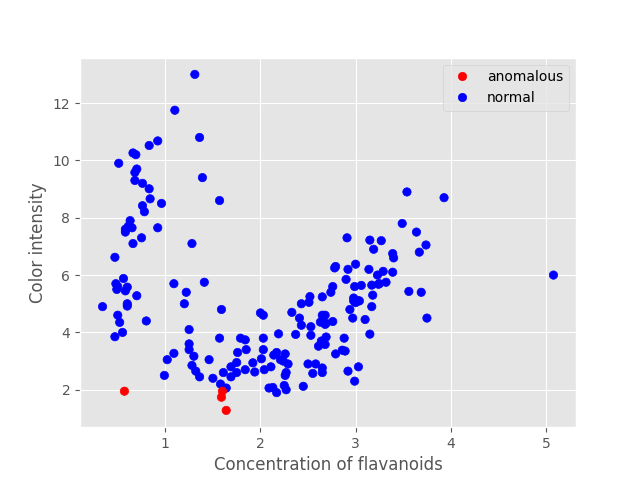
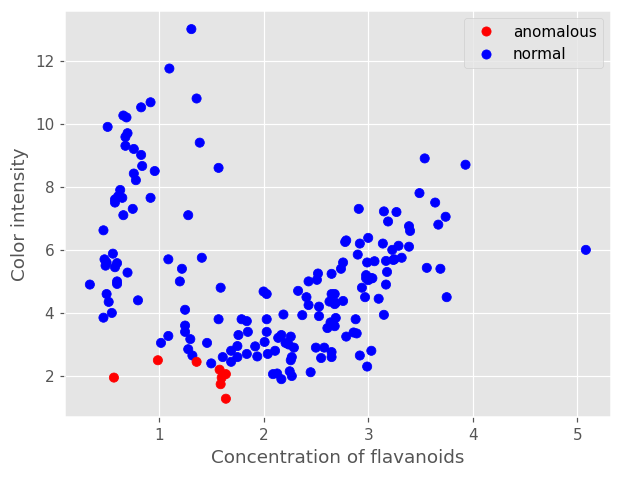
fix: make the OC-NN objective bounded below so training converges
The README noted that the loss appeared unbounded with no real convergence,
and speculated it was a limitation of the approach. It was three bugs in this
implementation.

1. The regularization term received no gradient. `self.w` / `self.V` were
   captured with `layer.get_weights()`, which returns numpy copies, so inside
   the loss they were graph constants. Autodiff saw nothing from
   `0.5*||w|| + 0.5*||V||` and the optimizer minimized the quantile term alone.
   Read the live layer kernels instead.

2. The norms were not squared. Eq (4) uses `0.5*||w||^2_2 + 0.5*||V||^2_F`;
   the code used `tf.norm`. Scaling `w -> c*w` scales the score, `r`, and the
   quantile term linearly in `c`, and the unsquared penalty grows linearly too.
   Since the quantile term is negative at its optimum, the objective is
   genuinely unbounded below and descent walks `c -> inf`. The squared penalty
   grows like `c^2`, making the objective coercive.

3. The Dense layers had biases. The paper scores a point as exactly
   `<w, g(Vx)>`. An output bias is unregularized and shifts the score and `r`
   together, so the net drives the objective down by making its output
   constant, collapsing to `w -> 0`. Fixing 1 and 2 alone still collapsed.

Also: `steps_per_epoch=1` meant each epoch trained on one default batch of 32
samples (~3.2k of 567k rows on http.mat, with `r` estimated from 32 points) --
now full-batch, matching the paper's alternating minimization; `r` is solved
[…]

diff --git a/ocnn.py b/ocnn.py
@@ -9,7 +9,7 @@ from tensorflow.keras.optimizers import Adam
 import tensorflow as tf
 import tensorflow_probability as tfp
 
-from loss import quantile_loss
+from loss import quantile_loss, regularization_loss
 
 tf.random.set_seed(0)
 
@@ -30,37 +30,64 @@ class OneClassNeuralNetwork:
         """
         self.input_dim = input_dim
         self.hidden_size = hidden_layer_size
-        self.r = r
+        self.r = tf.Variable(r, dtype=tf.float32, trainable=False, name="r")
         self.g = g
+
+    @property
+    def w(self) -> tf.Variable:
+        """weight matrix from the hidden to the output layer"""
+        return self.model.get_layer("hidden_output").kernel
+
+    @property
+    def V(self) -> tf.Variable:
+        """weight matrix from the input to the hidden units"""
+        return self.model.get_layer("input_hidden").kernel
 
     def custom_ocnn_loss(self, nu: float) -> Callable[[tf.Tensor, tf.Tensor], tf.Tensor]:
         def custom_hinge(_: tf.Tensor, y_hat: tf.Tensor) -> tf.Tensor:
-            loss = 0.5 * tf.norm(self.w) + \
-                   0.5 * tf.norm(self.V) + \
-                   quantile_loss(self.r, y_hat, nu)
-            self.r = tfp.stats.percentile(y_hat,
-                                          q=100 * nu,
-                                          interpolation='linear')
-            return loss
+            # `w` and `V` are read as live layer kernels so that autodiff actually sees the
+            # regularization term. `r` is held fixed here - it is solved for separately, in
+            # closed form, once per epoch (Theorem 1 of the paper).
+            return regularization_loss(self.w, self.V) + quantile_loss(self.r, y_hat, nu)
 
         return custom_hinge
 
     def build_model(self):
         h_size = self.hidden_size
         model = Sequential()
-        input_hidden = Dense(h_size, input_dim=self.input_dim, kernel_initializer=RandomNormal(0.5), name="input_hidden")
+        # `use_bias=False` throughout: the paper scores a point as exactly <w, g(Vx)>, with no
+        # bias terms. An output bias in particular is fatal - it is unregularized and shifts the
+        # score and `r` together, so the network can drive the objective down by making its
+        # output constant, collapsing to a degenerate solution that separates nothing.
+        input_hidden = Dense(h_size, input_dim=self.input_dim,
+                             kernel_initializer=RandomNormal(mean=0.0, stddev=0.1),
+                             use_bias=False,
+                             name="input_hidden")
         model.add(input_hidden)
         model.add(Activation(self.g))
 
         # Define Dense layer from hidden to output
-        hidden_output = Dense(1, name="hidden_output", kernel_initializer=RandomNormal(0.5))
+        hidden_output = Dense(1, name="hidden_output",
+                              kernel_initializer=RandomNormal(mean=0.0, stddev=0.1),
+                              use_bias=False)
         model.add(hidden_output)
         model.add(Activation("linear"))
 
-        self.V = input_hidden.get_weights()[0]  # "V is the weight matrix from input to hidden units"
-        self.w = hidden_output.get_weights()[0]  # "w is the scalar output obtained from the hidden to output layer"
+        self.model = model
 
         return model
+
+    def update_r(self, X: np.array, nu: float) -> None:
+        """
+        solves for r given the current (w, V): per Theorem 1 of the paper, the optimal r is the
+        nu-quantile of the scores {<w, g(Vx_n)>}. `interpolation='lower'` is used because the
+        empirical minimizer of the pinball loss is the lower quantile.
+
+        :param X: input training data
+        :param nu: parameter between [0, 1], see `train_model`
+        """
+        y_hat = self.model(X, training=False)
+        self.r.assign(tfp.stats.percentile(y_hat, q=100 * nu, interpolation='lower'))
 
     def train_model(self, X: np.array, epochs: int = 50, nu: float = 1e-2, init_lr: float = 1e-2, save: bool = True):
         """
@@ -76,13 +103,13 @@ class OneClassNeuralNetwork:
         """
 
         def r_metric(*args):
-            return self.r
+            return tf.convert_to_tensor(self.r)
 
         def w_norm(*args):
-            return 0.5 * tf.norm(self.w)
+            return 0.5 * tf.reduce_sum(tf.square(self.w))
 
         def V_norm(*args):
-            return 0.5 * tf.norm(self.V)
+            return 0.5 * tf.reduce_sum(tf.square(self.V))
 
         def quantile_loss_metric(*args):
             return quantile_loss(self.r, args[1], nu)
@@ -95,22 +122,23 @@ class OneClassNeuralNetwork:
 
         quantile_loss_metric.__name__ = 'quantile_loss'
 
-        def on_epoch_end(epoch, logs):
-            self.w = model.get_layer('hidden_output').get_weights()[0]
-            self.V = model.get_layer('input_hidden').get_weights()[0]
+        def on_epoch_begin(epoch, logs):
+            # alternating minimization: solve for r against the current (w, V) before each pass
+            # of gradient descent on (w, V)
+            self.update_r(X, nu)
 
         model = self.build_model()
 
-        model.compile(optimizer=Adam(lr=init_lr),
+        model.compile(optimizer=Adam(learning_rate=init_lr),
                       loss=self.custom_ocnn_loss(nu),
                       metrics=[r_metric, quantile_loss_metric, w_norm, V_norm], run_eagerly=True)
 
         # despite the fact that we don't have a ground truth `y`, the fit function requires a label argument,
         # so we just supply a dummy vector of 0s
         history = model.fit(X, np.zeros((X.shape[0],)),
-                            steps_per_epoch=1,
+                            batch_size=X.shape[0],
                             shuffle=True,
-                            callbacks=[tf.keras.callbacks.LambdaCallback(on_epoch_end=on_epoch_end)],
+                            callbacks=[tf.keras.callbacks.LambdaCallback(on_epoch_begin=on_epoch_begin)],
                             epochs=epochs)
 
         if save:
@@ -121,20 +149,19 @@ class OneClassNeuralNetwork:
             model_dir = f"models/ocnn_{datetime.now().strftime('%Y-%m-%d-%H:%M:%s')}"
             os.mkdir(model_dir)
             model.save(f"{model_dir}/model.h5")
-            np.savez(f"{model_dir}/params.npz", w=self.w, V=self.V, nu=nu)
+            np.savez(f"{model_dir}/params.npz", w=self.w.numpy(), V=self.V.numpy(), nu=nu, r=self.r.numpy())
 
         return model, history
 
     def load_model(self, model_dir: str) -> "OneClassNeuralNetwork":
         """
         loads a pretrained model
-        :param model_dir: directory where model and model params (w, V, and nu) are saved
+        :param model_dir: directory where model and model params (w, V, r, and nu) are saved
         :return: loaded model
         """
         params = np.load(f'{model_dir}/params.npz')
-        w = params['w']
-        V = params['V']
         nu = params['nu'].tolist()
-        model = load_model(f'{model_dir}/model.h5',
-                           custom_objects={'custom_hinge': self.custom_ocnn_loss(nu, w, V)})
-        return model
+        self.r.assign(params['r'].tolist())
+        self.model = load_model(f'{model_dir}/model.h5',
+                                custom_objects={'custom_hinge': self.custom_ocnn_loss(nu)})
+        return self.model

diff --git a/wine.py b/wine.py
@@ -1,4 +1,3 @@
-import h5py
 import numpy as np
 import matplotlib.pyplot as plt
 from matplotlib.colors import ListedColormap
@@ -23,11 +22,11 @@ def main():
     num_features = X.shape[1]
     num_hidden = 8
     r = 1.0
-    epochs = 300
+    epochs = 500
     nu = 0.05
 
     oc_nn = OneClassNeuralNetwork(num_features, num_hidden, r)
-    model, history = oc_nn.train_model(X, epochs=epochs, nu=nu, init_lr=0.001)
+    model, history = oc_nn.train_model(X, epochs=epochs, nu=nu, init_lr=0.01)
 
     plt.style.use("ggplot")
     plt.figure()
@@ -42,13 +41,19 @@ def main():
     plt.xlabel("Epoch")
     plt.ylabel("Loss")
     plt.legend(loc="upper right")
+    plt.savefig("figures/wine_loss.png", dpi=110, bbox_inches="tight")
     plt.show()
 
     y_pred = model.predict(X)
 
-    r = history.history['r'].pop()
+    # solve for r once more against the final (w, V) - the last value recorded in `history` was
+    # the one used during the final epoch, before that epoch's gradient step
+    oc_nn.update_r(X, nu)
+    r = oc_nn.r.numpy()
 
     s_n = [y_pred[i, 0] - r >= 0 for i in range(len(y_pred))]
+
+    print(f"r = {r:.4f}, fraction flagged anomalous = {1 - sum(s_n) / len(s_n):.4f} (nu = {nu})")
 
     cmap = ListedColormap(['r', 'b'])
 
@@ -59,9 +64,9 @@ def main():
     ax.set_xlabel(feature_index_to_name[0])
     ax.set_ylabel(feature_index_to_name[1])
     plt.legend(handles=scatter.legend_elements()[0], labels=['anomalous', 'normal'], loc='upper right')
+    plt.savefig("figures/wine_clusters.png", dpi=110, bbox_inches="tight")
     plt.show()
 
 
 if __name__ == "__main__":
     main()
-    exit()

diff --git a/kdd_cup.py b/kdd_cup.py
@@ -20,11 +20,11 @@ def main():
     num_features = X.shape[1]
     num_hidden = 16
     r = 1.0
-    epochs = 100
+    epochs = 500
     nu = 0.01
 
     oc_nn = OneClassNeuralNetwork(num_features, num_hidden, r)
-    model, history = oc_nn.train_model(X, epochs=epochs, nu=nu, init_lr=0.1)
+    model, history = oc_nn.train_model(X, epochs=epochs, nu=nu, init_lr=0.01)
 
     plt.style.use("ggplot")
     plt.figure()
@@ -39,15 +39,20 @@ def main():
     plt.xlabel("Epoch")
     plt.ylabel("Loss")
     plt.legend(loc="upper right")
+    plt.savefig("figures/loss_http.png", dpi=110, bbox_inches="tight")
     plt.show()
 
     y_pred = model.predict(X)
 
-    r = history.history['r'].pop()
+    # solve for r once more against the final (w, V) - the last value recorded in `history` was
+    # the one used during the final epoch, before that epoch's gradient step
+    oc_nn.update_r(X, nu)
+    r = oc_nn.r.numpy()
 
     s_n = [y_pred[i, 0] - r >= 0 for i in range(len(y_pred))]
 
-    frac_of_outliers = len([s for s in s_n if s == 0]) / len(s_n)
+    frac_of_outliers = 1 - sum(s_n) / len(s_n)
+    print(f"r = {r:.4f}, fraction flagged anomalous = {frac_of_outliers:.4f} (nu = {nu})")
 
     cmap = ListedColormap(['r', 'b'])
 
@@ -59,6 +64,7 @@ def main():
     ax.set_ylabel(feature_index_to_name[1])
     ax.set_zlabel(feature_index_to_name[2])
     plt.legend(handles=scatter.legend_elements()[0], labels=['anomalous', 'normal'], loc='upper right')
+    plt.savefig("figures/feat_http.png", dpi=110, bbox_inches="tight")
     plt.show()
 
 

diff --git a/loss.py b/loss.py
@@ -3,7 +3,7 @@ import tensorflow as tf
 
 def quantile_loss(r, y_hat, nu):
     """
-    3rd term in Eq (4) of the original paper
+    3rd and 4th terms in Eq (4) of the original paper
     :param r: bias of hyperplane
     :param y_hat: data / output we're operating on
     :param nu: parameter between [0, 1] controls trade off between maximizing the distance of the hyperplane from
@@ -11,3 +11,18 @@ def quantile_loss(r, y_hat, nu):
     :return: the loss function value
     """
     return (1 / nu) * tf.reduce_mean(tf.maximum(0.0, r - y_hat)) - r
+
+
+def regularization_loss(w, V):
+    """
+    1st and 2nd terms in Eq (4) of the original paper: 0.5 * ||w||^2_2 + 0.5 * ||V||^2_F.
+
+    Note these are *squared* norms. Using the plain (unsquared) norm makes the objective
+    homogeneous of degree 1 in the scale of `w`, which - because the quantile term is
+    negative at its optimum - leaves the objective unbounded below.
+
+    :param w: weight matrix from hidden to output layer
+    :param V: weight matrix from input to hidden layer
+    :return: the regularization term
+    """
+    return 0.5 * tf.reduce_sum(tf.square(w)) + 0.5 * tf.reduce_sum(tf.square(V))

diff --git a/README.md b/README.md
@@ -43,4 +43,29 @@ Execute `uv run pytest test` to run.
 
 
 # Notes
-Based on the objective function we use, the loss is unbounded, meaning there is no real "convergence" - at least on the two test datasets presented here. I've probed the source code, read through the paper several times, and I'm fairly certain the implementation here is accurate. I'm not sure if this is a limitation of the approach, or if I'm missing something. I'd love to hear from anyone who has any insight on this, especially if you apply it to new datasets.
+
+**Previously this README noted that the loss appeared unbounded and never converged. That turned out to be three bugs in this implementation, not a limitation of the approach.** The objective in Eq (4) of the paper is bounded below and the implementation now converges. For anyone who hit the same wall, the three causes were:
+
+1. **The regularization term received no gradient.** `self.w` and `self.V` were captured via `layer.get_weights()`, which returns *numpy copies*. Inside the loss they were graph constants, so autodiff saw zero gradient from `0.5*||w|| + 0.5*||V||`. The optimizer was minimizing the quantile term alone, with nothing pushing back. Fixed by reading the live layer kernels (`layer.kernel`).
+
+2. **The norms were not squared.** The paper uses `0.5*||w||²₂ + 0.5*||V||²_F`; the code used `tf.norm`, which is unsquared. This is not cosmetic. Scaling `w → c·w` scales the score, `r`, and the whole quantile term linearly in `c`, while the unsquared penalty also grows only linearly. Since the quantile term is negative at its optimum, whenever `|L_q| > 0.5*||w||₂` the objective is **genuinely unbounded below** and gradient descent walks `c → ∞` forever. With the squared norm the penalty grows like `c²`, making the objective coercive and bounded. Fixed in `loss.regularization_loss`.
+
+3. **The `Dense` layers had biases.** The paper scores a point as exactly `⟨w, g(Vx)⟩`, with no bias terms. An output bias is unregularized and shifts the score and `r` together, so the network can drive the objective down by simply making its output constant — which it does, collapsing to `w → 0` and a degenerate solution that separates nothing. Fixing (1) and (2) alone still produced this collapse. Fixed with `use_bias=False`.
+
+Also corrected along the way: `steps_per_epoch=1` meant each epoch trained on a single default-size batch of 32 samples (on `http.mat`, that is ~3,200 of 567,000 rows ever seen, with `r` estimated from 32 points); training is now full-batch, matching the paper's alternating minimization. `RandomNormal(0.5)` was setting the *mean* to 0.5, not the stddev. And `r` is now solved with `interpolation='lower'`, since the empirical minimizer of the pinball loss is the lower quantile — the test case above demonstrates this, with the true minimum at `r=3` (−1.990) versus 3.64 (−1.983) under linear interpolation.
+
+The loss now flattens and stays flat, and `nu` behaves as documented — it controls the fraction of points permitted to cross the hyperplane: Wine flags 4.5% at `nu=0.05`, and HTTP flags 1.00% at `nu=0.01`.
+
+The plots below hold everything else fixed and vary only the regularization term. In both broken variants `w_norm` grows quadratically without bound — exactly the `c → ∞` scaling described above — while the corrected objective settles within a couple hundred epochs and stays flat.
+
+### Wine (8000 epochs) ###
+![alt text](https://github.com/danielenricocahall/One-Class-NeuralNetwork/blob/master/figures/convergence_comparison_wine.png)
+
+### HTTP (1500 epochs) ###
+![alt text](https://github.com/danielenricocahall/One-Class-NeuralNetwork/blob/master/figures/convergence_comparison_http.png)
+
+| variant | final loss (wine) | final loss (http) |
+| --- | --- | --- |
+| unsquared norm + detached weights (original) | -444.8 | -194.0 |
+| unsquared norm, gradients connected | -531.1 | -201.2 |
+| **squared norm, gradients connected (Eq 4)** | **-1.449** | **-5.358** |
